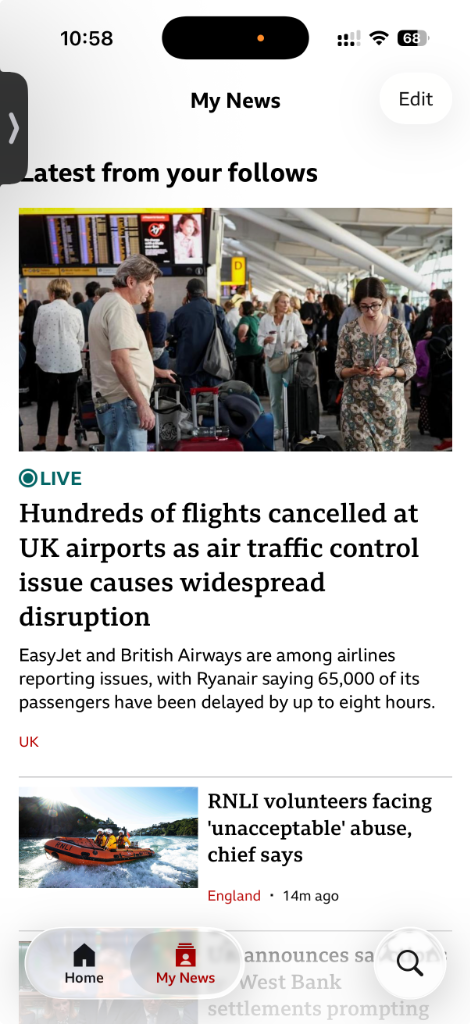
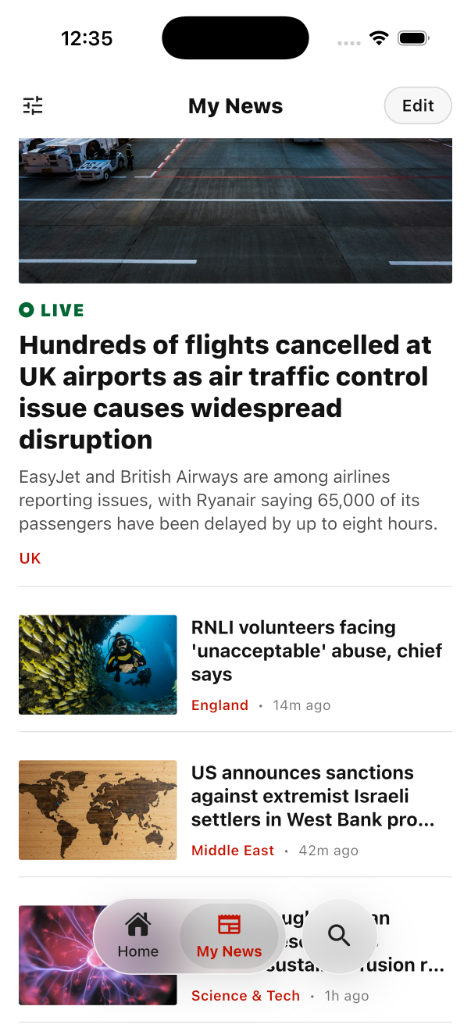
chore(release): bump version to 1.1.0 with updated screenshots and changelog

diff --git a/CHANGELOG.md b/CHANGELOG.md
@@ -1,3 +1,16 @@
+## 1.1.0
+
+* **Dynamic Width Sizing with `expandSpaceBetween`**:
+  * Menu capsule now dynamically hugs 2 items on one side, smoothly expands to accommodate 3–5 items, and caps at available screen width for 9+ items with horizontal scrolling.
+  * Replaced rigid `Spacer` with `MainAxisAlignment.spaceBetween` for responsive flex distribution.
+* **Search Button Customization**:
+  * Added `borderColor`, `borderWidth`, and `iconColor` customization parameters to `SearchGlassButton`.
+  * `GlassNavBar` now automatically synchronizes border color, border width, inactive icon color, and circular button diameter (`height`) with the menu styling.
+* **Anti-Overflow Safeguards**:
+  * Added `FittedBox` scale-down safeguard on menu items to prevent vertical `RenderFlex` overflow errors when using large icon and font sizes.
+* **Documentation & Gallery**:
+  * Added high-resolution mobile dark mode screenshot preview.
+
 ## 1.0.2
 
 * Featured mobile preview screenshot as the primary preview in pubspec and search cards.

diff --git a/README.md b/README.md
@@ -8,9 +8,11 @@ A customizable, lightweight frosted glass (liquid glassmorphism) navigation bar 
 Designed to look and feel like modern iOS liquid glass navigation bars.
 
 <p align="center">
-  <img src="screenshots/glass_menu_mobile.png" alt="Glass Menu Mobile Preview" width="280"/>
-  &nbsp;&nbsp;&nbsp;&nbsp;
-  <img src="screenshots/glass_menu_desktop.png" alt="Glass Menu Desktop Preview" width="480"/>
+  <img src="screenshots/glass_menu_mobile.png" alt="Glass Menu Mobile Preview (Light)" width="250"/>
+  &nbsp;&nbsp;
+  <img src="screenshots/glass_menu_dark.png" alt="Glass Menu Mobile Preview (Dark)" width="250"/>
+  &nbsp;&nbsp;
+  <img src="screenshots/glass_menu_desktop.png" alt="Glass Menu Desktop Preview" width="450"/>
 </p>
 
 ---
@@ -41,7 +43,7 @@ Add `glass_menu` to your `pubspec.yaml`:
 
 ```yaml
 dependencies:
-  glass_menu: ^1.0.2
+  glass_menu: ^1.1.0
 ```
 
 
